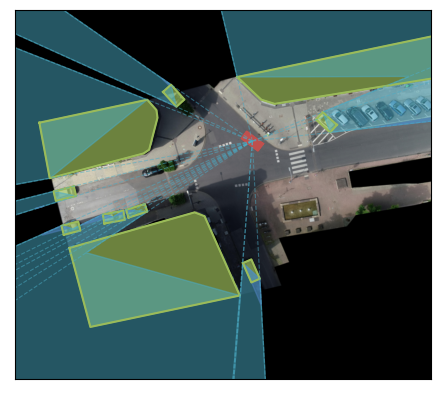
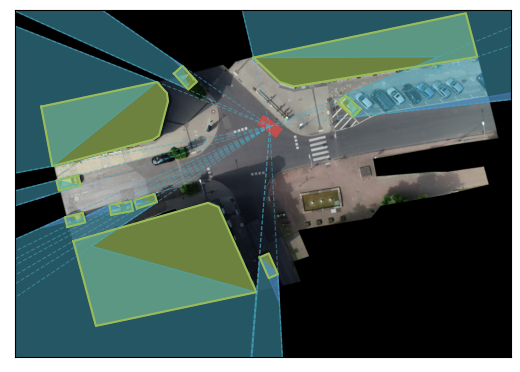
改了frankenberg盲区分割实验图片的尺寸

diff --git a/ogrit/occlusion_detection/occlusion_detection_geometry_forpaper.py b/ogrit/occlusion_detection/occlusion_detection_geometry_forpaper.py
@@ -69,14 +69,14 @@ class OcclusionDetector2D:
     def get_occlusions_frame(self, frame):
         frame_occlusions = {}
         print(frame.keys())
-        frame.pop(7)
-        # frame.pop(11)
-        # frame.pop(12)
-        # frame.pop(14)
-        # frame.pop(15)
-        # frame.pop(16)
-        # frame.pop(17)
-        # frame.pop(18)
+        frame.pop(9)
+        frame.pop(11)
+        frame.pop(12)
+        frame.pop(14)
+        frame.pop(15)
+        frame.pop(16)
+        frame.pop(17)
+        frame.pop(18)
         vehicles_in_frame = [(vehicle_id, frame.get(vehicle_id)) for vehicle_id in frame.keys()]
 
         # Get the boundaries of each of the vehicles.
